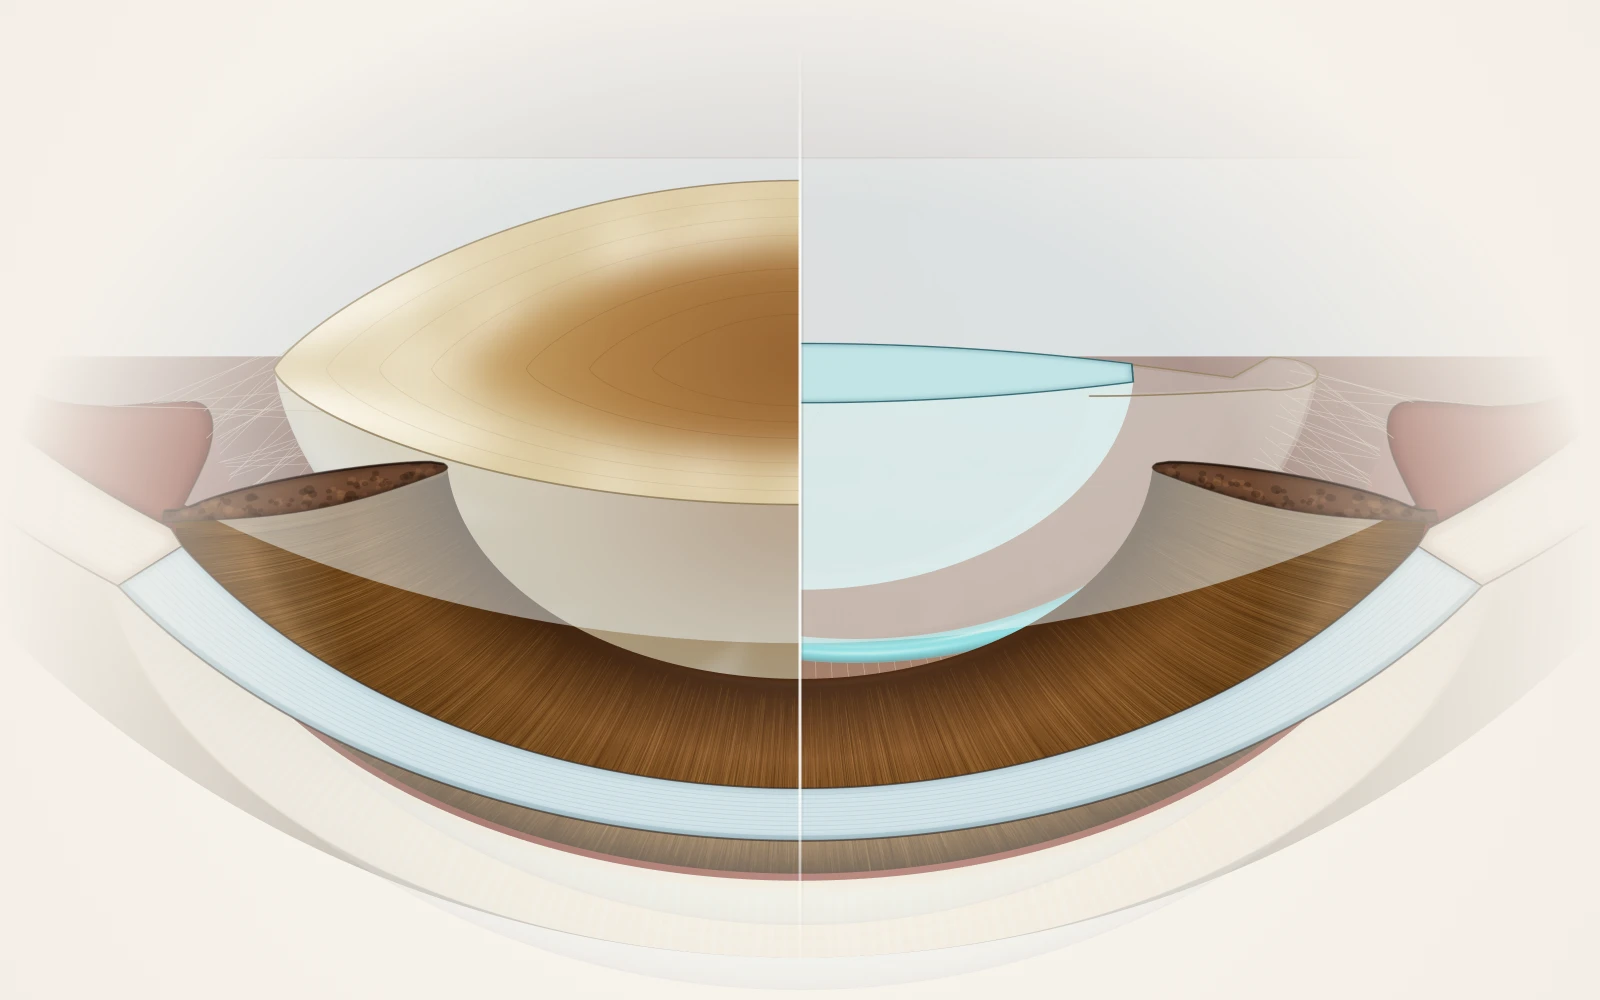
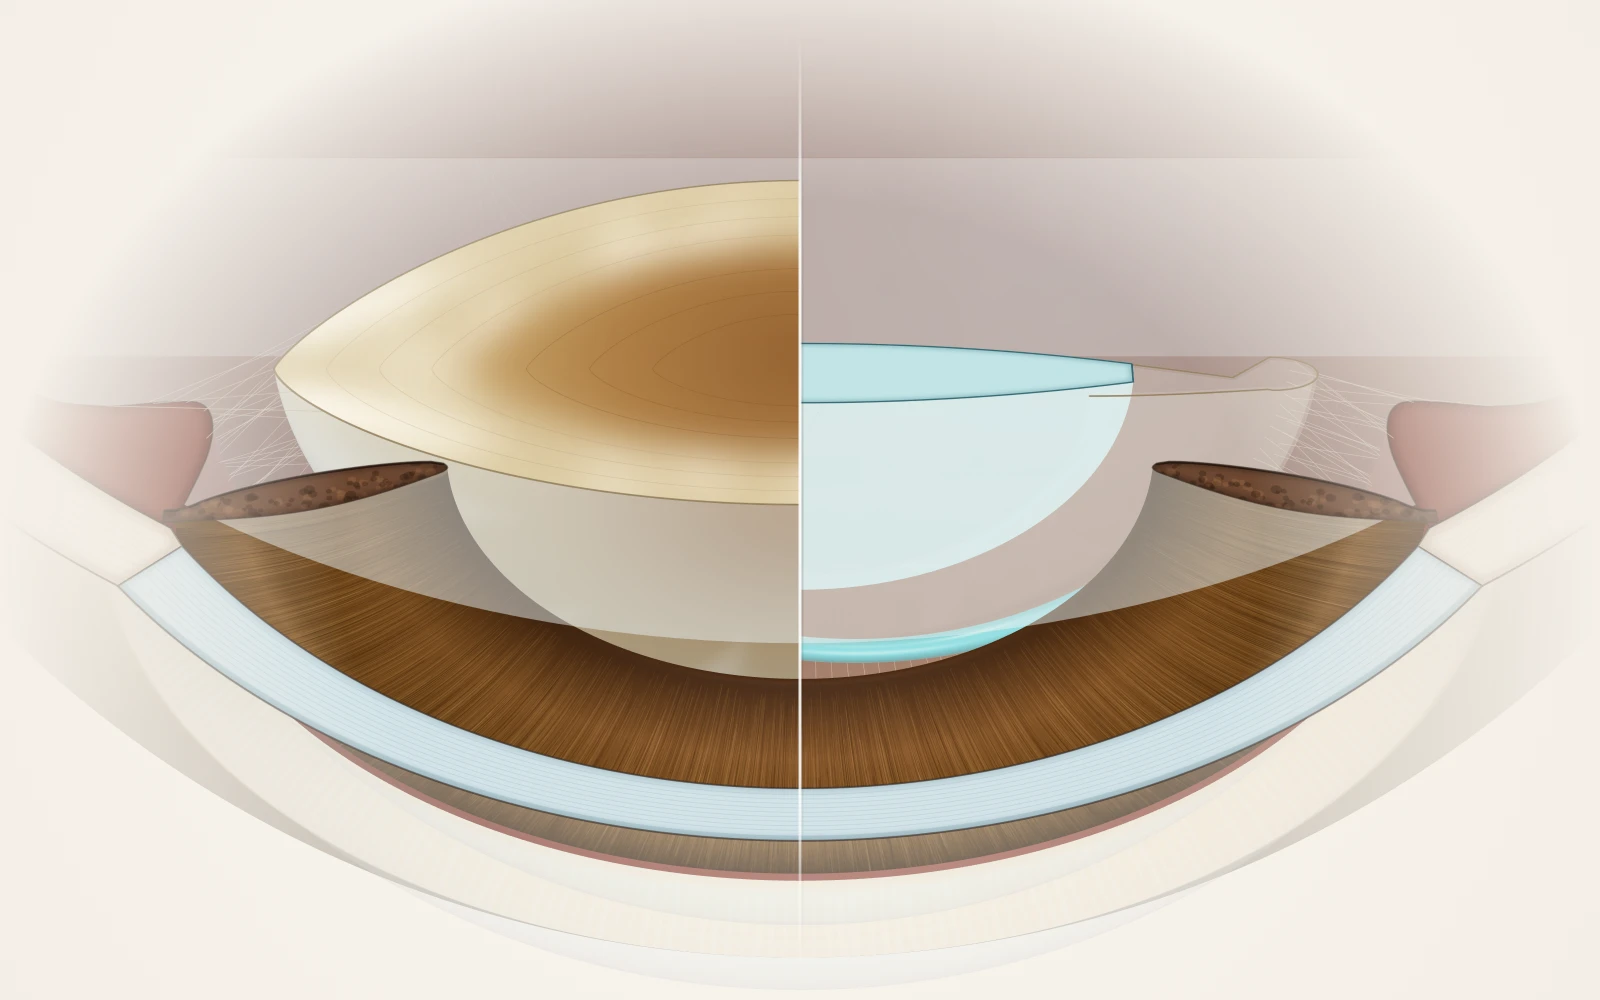
fix(illustrations): weak spots from the illustration review; resolution controls for the atlas
- cataract: translucent vitreous floor and section gel (no bright slab on dark)
- ICL: translucent vitreous floor (the pale corner is gone)
- CXL: UV field and rays toned down and shortened (no wash in the light image)
- implants: EDOF optic shows rings only (its relief read as a spiral)
- fundus map: soft mottling, continuous opaque vessels, resolution scales for close-ups
- style.RES (ppm/ink/tex) lets the atlas re-rasterise painted sections per frame;
  the legacy 1600x1000 render keeps RES = 1
- scene toggles for the atlas (loupe, inset, resting/grid optics, exported ICL/CXL helpers)

Legacy card files re-rendered with the same names and sizes.

Changed region(s): [[0.125, 0.031, 0.875, 0.372]]

diff --git a/scripts/illustrations/src/globe.js b/scripts/illustrations/src/globe.js
@@ -6,7 +6,7 @@ import { EYE, DEG, lensProfile, lensAntZ, lensPostZ, scleraProfile, ciliaryProfi
 import { lathe, corneaSpec, corneaMesh, irisTexture, irisUV, rng, colorize, clipAll, wedgePlanes, capPlane, paintedQuad, makeSection, offsetLine } from './kit.js';
 import { paintSclera, paintChoroid, paintRetina, paintCiliary, paintIris, paintCornea, paintLens, paintBag, paintZonules, paintOpticNerve, bagLines, NERVE_A, nerveW } from './eye.js';
 import { iol } from './instruments.js';
-import { C } from './style.js';
+import { C, RES } from './style.js';
 
 export const FULL = Math.PI * 2;
 
@@ -56,7 +56,7 @@ export function buildGlobe(mats, opt = {}) {
   let planes = null;
   const cut = o.cut;
   if (cut) {
-    planes = cut.mode === 'wedge' ? wedgePlanes(cut.phi0, cut.phi1) : [new THREE.Plane(new THREE.Vector3(0, -1, 0), 0)];
+    planes = cut.mode === 'wedge' ? wedgePlanes(cut.phi0, cut.phi1) : [new THREE.Plane(new THREE.Vector3(0, cut.keep === '+y' ? 1 : -1, 0), 0)]; // half: keep y <= 0 (default) or y >= 0
     if (cut.zc != null) planes.push(new THREE.Plane(new THREE.Vector3(0, 0, -1), cut.zc));
     if (cut.zb != null) planes.push(new THREE.Plane(new THREE.Vector3(0, 0, 1), -cut.zb)); // remove z < zb only
     clipAll(group, planes);
@@ -79,9 +79,9 @@ export function buildGlobe(mats, opt = {}) {
   };
 
   // Painted caps for the cut faces. r1 = radial extent, z1 = front limit (mm), ppm = canvas px per mm.
-  const caps = ({ r1 = 11.6, z1: zFront = 4.3, ppm = 160, tones = [1, 0.9, 0.96], floorPpm = 120 }) => {
+  const caps = ({ r1 = 11.6, z1: zFront = 4.3, ppm = 160, tones = [1, 0.9, 0.96], floorPpm = 120, zMin = -Infinity }) => {
     const back = -EYE.axialLength + EYE.corneaApexZ - 0.4;
-    const z0 = cut.zb != null ? back : (cut.zc ?? back);
+    const z0 = Math.max(zMin, cut.zb != null ? back : (cut.zc ?? back)); // zMin: paint only what a close-up frames
     const z1 = cut.zb != null ? cut.zb : zFront;
     const out = [];
     if (cut.mode === 'wedge') {
@@ -130,7 +130,8 @@ function sectionPlane(k, tone = 1) {
 }
 
 // Coronal face at z = zc inside the removed region: sclera, choroid and retina rings around the vitreous gel.
-function coronalFloor(cut, ppm, tone) {
+function coronalFloor(cut, ppm0, tone) {
+  const ppm = Math.min(ppm0 * RES.ppm, 7000 / 23), lw = RES.ink * (ppm / ppm0) / RES.ppm;
   const zc = cut.zc ?? cut.zb, dz = zc - EYE.cz;
   const rad = (R) => Math.sqrt(Math.max(0, R * R - dz * dz));
   const a = Math.atan2(rad(EYE.Ri), dz);
@@ -143,13 +144,13 @@ function coronalFloor(cut, ppm, tone) {
   g.save();
   g.beginPath(); // removed region in the xy plane
   if (cut.mode === 'wedge') { g.moveTo(...P(0, 0)); g.arc(...P(0, 0), S * ppm, -cut.phi0, -cut.phi1, true); g.closePath(); }
-  else g.rect(0, 0, N, N / 2);
+  else if (cut.keep === '+y') g.rect(0, N / 2, N, N / 2); else g.rect(0, 0, N, N / 2);
   g.clip();
   const ring = (r0, r1, fill) => { g.beginPath(); g.arc(...P(0, 0), r1 * ppm, 0, FULL); g.arc(...P(0, 0), r0 * ppm, 0, FULL, true); g.fillStyle = fill; g.fill(); };
   if (cut.floor === 'aqueous') { // just behind the limbus: scleral ring around clear aqueous
     g.beginPath(); g.arc(...P(0, 0), rIn * ppm, 0, FULL); g.fillStyle = 'rgba(232,240,242,0.35)'; g.fill();
     ring(rIn, rOut, C.sclera);
-    g.lineWidth = 4.2; g.strokeStyle = C.ink;
+    g.lineWidth = 4.2 * lw; g.strokeStyle = C.ink;
     for (const r of [rOut, rIn]) { g.beginPath(); g.arc(...P(0, 0), r * ppm, 0, FULL); g.stroke(); }
     g.restore();
     return paintedQuad(c, [-S, S, zc], [S, S, zc], [-S, -S, zc], { tone });
@@ -160,7 +161,7 @@ function coronalFloor(cut, ppm, tone) {
   vg.addColorStop(0, `rgba(236,241,242,${ga * 0.97})`); vg.addColorStop(1, `rgba(222,231,233,${ga})`);
   g.beginPath(); g.arc(...P(0, 0), rRet * ppm, 0, FULL); g.fillStyle = vg; g.fill();
   const R = rng(4);
-  g.lineWidth = 1.2;
+  g.lineWidth = 1.2 * lw;
   for (let i = 0; i < 26; i++) {
     const r0 = R() * rRet * 0.9, a0 = R() * FULL;
     g.strokeStyle = `rgba(190,206,212,${0.12 + R() * 0.12})`;
@@ -171,9 +172,9 @@ function coronalFloor(cut, ppm, tone) {
   ring(rRet, rCh, C.retina);
   ring(rCh, rIn, C.choroid);
   ring(rIn, rOut, C.sclera);
-  g.lineWidth = 2.1 * 2; g.strokeStyle = C.ink;
+  g.lineWidth = 2.1 * 2 * lw; g.strokeStyle = C.ink;
   for (const r of [rOut, rIn]) { g.beginPath(); g.arc(...P(0, 0), r * ppm, 0, FULL); g.stroke(); }
-  g.lineWidth = 2; g.strokeStyle = C.inkSoft;
+  g.lineWidth = 2 * lw; g.strokeStyle = C.inkSoft;
   for (const r of [rCh, rRet]) { g.beginPath(); g.arc(...P(0, 0), r * ppm, 0, FULL); g.stroke(); }
   g.restore();
   return paintedQuad(c, [-S, S, zc], [S, S, zc], [-S, -S, zc], { tone });
@@ -220,7 +221,7 @@ export function paintIOLSection(k, zc = -1.25) {
   k.stroke(poly, 'rgba(40,96,106,0.9)', 2.0);
 }
 
-function zonules(lens) {
+export function zonules(lens) {
   const pos = [];
   const anchorsDeg = [33.8, 35.4, 37.2, 39.2];
   const targets = lens === 'iol'
@@ -266,10 +267,11 @@ function fundusUV(g) {
   }
   uv.needsUpdate = true;
 }
-let fundusCache = null;
+let fundusCache = null, fundusN = 0;
 export function fundusTexture() {
-  if (fundusCache) return fundusCache.clone();
-  const N = 2048, c = document.createElement('canvas'); c.width = c.height = N;
+  const N = Math.min(8192, Math.round(2048 * RES.tex));
+  if (fundusCache && fundusN === N) return fundusCache.clone();
+  const px = N / 2048, c = document.createElement('canvas'); c.width = c.height = N;
   const g = c.getContext('2d');
   const s = N / (2 * D_MAX); // px per mm
   const P = (dx, dy) => [N / 2 + dx * s, N / 2 - dy * s]; // dx along +x (canvas right), dy along +y (canvas up)
@@ -279,11 +281,13 @@ export function fundusTexture() {
   g.fillStyle = base; g.fillRect(0, 0, N, N);
   const R = rng(17);
   // subtle choroidal mottling
+  g.filter = `blur(${Math.round(5 * px)}px)`; // soft mottling (hard-edged discs showed in close-ups)
   for (let i = 0; i < 2600; i++) {
     const [x, y] = [R() * N, R() * N];
     g.fillStyle = R() < 0.5 ? 'rgba(170,80,58,0.06)' : 'rgba(250,200,170,0.06)';
-    g.beginPath(); g.arc(x, y, 6 + R() * 20, 0, FULL); g.fill();
+    g.beginPath(); g.arc(x, y, (6 + R() * 20) * px, 0, FULL); g.fill();
   }
+  g.filter = 'none';
   // macula and fovea
   const [mx, my] = P(0, 0);
   let gr = g.createRadialGradient(mx, my, 0, mx, my, 3.0 * s);
@@ -300,9 +304,11 @@ export function fundusTexture() {
   const Rv = rng(23);
   const draw = (pts, w0, col) => {
     g.strokeStyle = col; g.lineCap = 'round'; g.lineJoin = 'round';
-    for (let i = 1; i < pts.length; i++) {
-      g.lineWidth = Math.max(1.4, w0 * (1 - 0.7 * i / pts.length) * s);
-      g.beginPath(); g.moveTo(...P(...pts[i - 1])); g.lineTo(...P(...pts[i])); g.stroke();
+    const steps = 6; // taper in a few opaque runs; each run is one path, so joints do not double up
+    for (let k = 0; k < steps; k++) {
+      const a = Math.floor((k * (pts.length - 1)) / steps), b = Math.floor(((k + 1) * (pts.length - 1)) / steps);
+      g.lineWidth = Math.max(1.4 * px, w0 * (1 - 0.7 * (a + b) / 2 / pts.length) * s);
+      g.beginPath(); g.moveTo(...P(...pts[a])); for (let i = a + 1; i <= b; i++) g.lineTo(...P(...pts[i])); g.stroke();
     }
   };
   const grow = (x, y, ang, len, w, col, depth) => {
@@ -322,14 +328,14 @@ export function fundusTexture() {
       grow(...pts[i], a + (Rv() < 0.5 ? 1 : -1) * (0.5 + Rv() * 0.5), len * 0.5, w * 0.6, col, depth + 1);
     }
   };
-  for (const [col, w, off] of [['rgba(128,24,26,0.8)', 0.17, 0.12], ['rgba(186,58,50,0.78)', 0.13, -0.12]]) {
+  for (const [col, w, off] of [['#9A3A33', 0.15, 0.12], ['#C2584A', 0.115, -0.12]]) {
     for (const sg of [1, -1]) {
       grow(-dd, sg * (0.25 + off * sg), sg * 1.05, 9.5, w, col, 0); // temporal arcade
       grow(-dd, sg * (0.2 + off * sg), Math.PI - sg * 0.6, 6, w * 0.8, col, 1); // nasal
     }
   }
   const t = new THREE.CanvasTexture(c); t.colorSpace = THREE.SRGBColorSpace; t.anisotropy = 16;
-  fundusCache = t;
+  fundusCache = t; fundusN = N;
   return t;
 }
 

diff --git a/scripts/illustrations/src/scenes/icl.js b/scripts/illustrations/src/scenes/icl.js
@@ -8,8 +8,8 @@ import { DEG, EYE, lensAntZ } from '../anatomy.js';
 import { phakicLens } from '../instruments.js';
 import { C } from '../style.js';
 
-const PHI_LONG = 58 * DEG; // the implant's long axis lies in this cut face
-const CUT = { mode: 'wedge', phi0: -52 * DEG, phi1: PHI_LONG, zc: -3.95 };
+export const PHI_LONG = 58 * DEG; // the implant's long axis lies in this cut face
+const CUT = { mode: 'wedge', phi0: -52 * DEG, phi1: PHI_LONG, zc: -3.95, floorAlpha: 0.5 }; // translucent gel floor (was a pale slab)
 
 // Plate geometry, matching instruments.phakicLens (L = 5.75, Rb = 17, zApex = 0.84).
 const L = 5.75, Rb = 17, zApex = 0.84;
@@ -25,8 +25,8 @@ const th = (x, y) => { const r = Math.hypot(x, y); return r < 2.9 ? 0.09 + 0.17 
 const base = (x, y) => zApex - (x * x + y * y) / (2 * Rb);
 
 // Section of the plate along the half-line at polar angle phi: [r, z] polygon (bottom out, top back).
-function plateSection(phi) {
-  const a = phi - PHI_LONG, bottom = [], top = [];
+export function plateSection(phi, phiLong = PHI_LONG) {
+  const a = phi - phiLong, bottom = [], top = [];
   for (let r = 0; r <= L + 0.001; r += 0.02) {
     const x = r * Math.cos(a), y = r * Math.sin(a);
     if (Math.abs(x) > L || Math.abs(y) > hw(x)) break;
@@ -44,22 +44,26 @@ export default function icl(ctx) {
   lens.rotation.z = PHI_LONG;
   const eye = buildGlobe(ctx.mats, {
     lens: 'clear', pupilR: 2.3, irisLift: 0.72, cut: CUT, fundusTint: '#6E5652', irisSeed: 7,
-    paintExtra: (k, phi) => {
-      const sec = plateSection(phi);
-      if (sec.bottom.length < 2) return;
-      // the vault: aqueous between the implant and the natural lens, tinted so the gap reads
-      const n = sec.bottom.length, rEnd = sec.bottom[n - 1][0];
-      const over = sec.bottom.filter(([r]) => r < Math.min(rEnd, 4.2)).map(([r]) => [r, lensAntZ(Math.min(r, EYE.lensEqR - 0.01)) + 0.004]);
-      const gap = [...sec.bottom.slice(0, over.length).map(([r, z]) => [r, z - 0.004]), ...over.reverse()];
-      k.ctx.save(); k.ctx.filter = `blur(${k.mm(0.04)}px)`; k.fill(gap, 'rgba(118,202,220,0.62)'); k.ctx.restore();
-      k.fill(sec.poly, C.implantSection);
-      k.shade(sec.poly, 'rgba(40,110,120,0.35)', 3, 3);
-      k.stroke(sec.poly, 'rgba(40,96,106,0.95)', 2.2);
-    }
+    paintExtra: (k, phi) => paintPlate(k, phi)
   });
   lens.traverse((o) => { if (o.material) { o.material.clippingPlanes = eye.planes; o.material.clipIntersection = true; } });
   const m = lens.children[0].material; m.color = new THREE.Color('#9FD9DC'); m.opacity = 0.62;
   scene.add(eye.group, lens, ...eye.caps({ r1: 11.6, z1: 4.3, ppm: 330, tones: [0.88, 1, 0.92] }));
   const W = ctx.W, H = ctx.H;
   return { passes: [{ scene, camera: cam, fade: { cx: W * 0.42, cy: H * 0.5, rx: W * 0.56, ry: H * 0.74, inner: 0.56 } }] };
+}
+
+// The plate's section on the cut face at polar angle phi, with the vault (aqueous between the implant and the natural
+// lens) tinted so the gap reads.
+export function paintPlate(k, phi, phiLong = PHI_LONG, mirror = false) {
+  const sec = plateSection(phi, phiLong);
+  if (sec.bottom.length < 2) return;
+  const m = mirror ? (poly) => poly.map(([r, z]) => [-r, z]) : (poly) => poly;
+  const n = sec.bottom.length, rEnd = sec.bottom[n - 1][0];
+  const over = sec.bottom.filter(([r]) => r < Math.min(rEnd, 4.2)).map(([r]) => [r, lensAntZ(Math.min(r, EYE.lensEqR - 0.01)) + 0.004]);
+  const gap = [...sec.bottom.slice(0, over.length).map(([r, z]) => [r, z - 0.004]), ...over.reverse()];
+  k.ctx.save(); k.ctx.filter = `blur(${k.mm(0.04)}px)`; k.fill(m(gap), 'rgba(118,202,220,0.62)'); k.ctx.restore();
+  k.fill(m(sec.poly), C.implantSection);
+  k.shade(m(sec.poly), 'rgba(40,110,120,0.35)', 3, 3);
+  k.stroke(m(sec.poly), 'rgba(40,96,106,0.95)', 2.2);
 }

diff --git a/scripts/illustrations/src/scenes/implants.js b/scripts/illustrations/src/scenes/implants.js
@@ -17,12 +17,15 @@ export default function implants(ctx) {
   const el = 47 * DEG;
   const cam = ctx.camera({ target: [0, -0.9, 0.9], dir: [0, -Math.cos(el), Math.sin(el)], up: [0, 0, 1], H: 24.5, fov: 20 });
   const scene = ctx.scene(cam);
-  TYPES.forEach((t, i) => { const m = productIOL(ctx, t); m.position.set(XS[i], 0, H0); scene.add(m); });
+  const resting = !!ctx.opts?.resting; // atlas close-up: optics rest on the surface (no levitation, no caustics)
+  const grid = !!ctx.opts?.grid; // atlas close-up: a 2 x 2 arrangement
+  const POS = TYPES.map((t, i) => (grid ? [[-5.4, 4.7], [5.4, 4.7], [-5.4, -4.9], [5.4, -4.9]][i] : [XS[i], 0]));
+  TYPES.forEach((t, i) => { const m = productIOL(ctx, t); m.position.set(POS[i][0], POS[i][1], resting ? 0.41 : H0); scene.add(m); });
 
   return {
     passes: [{ scene, camera: cam }],
     under(g, theme) {
-      TYPES.forEach((t, i) => floorLight(g, theme, ctx, cam, XS[i], t));
+      TYPES.forEach((t, i) => (resting ? contactShadow(g, theme, ctx, cam, POS[i][0], POS[i][1]) : floorLight(g, theme, ctx, cam, XS[i], t)));
     }
   };
 }
@@ -81,7 +84,7 @@ function opticSurface(type) {
     const r0 = i ? zones[i - 1] : 0, r1 = zones[i], amp = type === 'trifocal' ? 1 - 0.55 * (r1 / 2.5) : 1.2;
     return amp * ((r - r0) / (r1 - r0)) * 0.012; // sawtooth step
   };
-  const normal = zones.length ? normalMapFrom(h, 1024, 260) : null;
+  const normal = zones.length && type !== 'edof' ? normalMapFrom(h, 1024, 260) : null; // EDOF: rings only (its relief read as a spiral)
   const c = document.createElement('canvas'); c.width = c.height = 1024;
   const g = c.getContext('2d');
   g.fillStyle = '#ffffff'; g.fillRect(0, 0, 1024, 1024);
@@ -116,4 +119,16 @@ function floorLight(g, theme, ctx, cam, x, type) {
   if (type === 'trifocal') { glow(0.62, 0.95); ring(1.35, 0.16, 0.55); ring(2.2, 0.14, 0.32); }
   if (type === 'edof') { g.scale(1, 1.9); glow(1.0, 0.85); }
   g.restore();
+}
+
+// Contact shadow of an optic resting on the surface (atlas close-up).
+function contactShadow(g, theme, ctx, cam, x, y = 0) {
+  const o = ctx.project(cam, [x + 0.25, y - 0.35, 0]), ex = ctx.project(cam, [x + 1.25, y - 0.35, 0]), ey = ctx.project(cam, [x + 0.25, y + 0.65, 0]);
+  g.save();
+  g.setTransform(ex[0] - o[0], ex[1] - o[1], ey[0] - o[0], ey[1] - o[1], o[0], o[1]);
+  const sh = g.createRadialGradient(0, 0, 0, 0, 0, 3.6);
+  sh.addColorStop(0, 'rgba(40,52,56,0.34)'); sh.addColorStop(0.62, 'rgba(40,52,56,0.16)'); sh.addColorStop(1, 'rgba(40,52,56,0)');
+  g.fillStyle = sh; g.fillRect(-4, -4, 8, 8);
+  g.restore();
+  void theme;
 }

diff --git a/scripts/illustrations/src/scenes/cxl.js b/scripts/illustrations/src/scenes/cxl.js
@@ -61,14 +61,15 @@ export default function cxl(ctx) {
   const caps = eye.caps({ r1: 11.6, z1: 4.6, ppm: 320, tones: [1, 0.86, 0.95] });
   scene.add(eye.group, ...caps);
   // UV-A field (illustrative violet; 365 nm light is barely visible) with faint parallel rays
-  scene.add(lightColumn({ radius: 4.5, zFar: 26, zEnd: (x, y) => F(x, y) + 0.02, opacity: 0.2 }));
+  const uv = ctx.opts?.uv ?? 1; // 1 = series default; the UV field was toned down after review (it washed the upper left)
+  scene.add(lightColumn({ radius: 4.5, zFar: 17, zEnd: (x, y) => F(x, y) + 0.02, opacity: 0.12 * uv }));
   const rays = [];
   for (let i = 0; i < 46; i++) {
     const r = 4.3 * Math.sqrt((i + 0.5) / 46), t = i * 2.39996, x = r * Math.cos(t), y = r * Math.sin(t);
-    rays.push(x, y, 26, x, y, F(x, y) + 0.03);
+    rays.push(x, y, 15, x, y, F(x, y) + 0.03);
   }
   const rg = new THREE.BufferGeometry(); rg.setAttribute('position', new THREE.Float32BufferAttribute(rays, 3));
-  const rl = new THREE.LineSegments(rg, new THREE.LineBasicMaterial({ color: '#8C7BE0', transparent: true, opacity: 0.22, depthWrite: false }));
+  const rl = new THREE.LineSegments(rg, new THREE.LineBasicMaterial({ color: '#8C7BE0', transparent: true, opacity: 0.13 * uv, depthWrite: false }));
   rl.renderOrder = 21; scene.add(rl);
 
   const W = ctx.W, H = ctx.H;
@@ -78,7 +79,7 @@ export default function cxl(ctx) {
   const L = { x: W * 0.8, y: H * 0.33, r: H * 0.2 };
   return {
     passes: [{ scene, camera: cam, fade: { cx: W * 0.42, cy: H * 0.52, rx: W * 0.5, ry: H * 0.62, inner: 0.6 } }],
-    over(g, theme) { drawLoupe(g, theme, L, focus); }
+    over(g, theme) { if (ctx.opts?.loupe !== false) drawLoupe(g, theme, L, focus); }
   };
 }
 
@@ -150,3 +151,5 @@ function drawLoupe(g, theme, L, focus) {
 }
 
 void C;
+
+export { F as coneSurface, T as coneThickness, CX as CONE_X };

diff --git a/scripts/illustrations/src/kit.js b/scripts/illustrations/src/kit.js
@@ -2,7 +2,7 @@
 // the canvas "section painter" helpers. Everything here is procedural; no external models or textures.
 import * as THREE from 'three';
 import { EYE, corneaAntZ, corneaThickness } from './anatomy.js';
-import { C, M, INK_PX, SS } from './style.js';
+import { C, M, INK_PX, SS as SS0, RES } from './style.js';
 
 // ---------------------------------------------------------------------------------------------
 // Lathe around the optical (Z) axis, adapted from src/cataract-sim/lathe.js (copied, not imported).
@@ -189,8 +189,11 @@ export function retinaColors(g) {
 
 // ---------------------------------------------------------------------------------------------
 // Section painter: a canvas mapped onto the y = 0 cut plane. Canvas left = anterior (+z), top = +x.
-export function makeSection(bounds, ppm) {
+export function makeSection(bounds, ppm0) {
   const { x0, x1, z0, z1 } = bounds;
+  // atlas renders scale the canvas with the frame; keep each side under the GPU texture limit
+  const ppm = Math.min(ppm0 * RES.ppm, 15800 / Math.max(z1 - z0, x1 - x0), Math.sqrt(4.8e7 / ((z1 - z0) * (x1 - x0))));
+  const SS = SS0 * RES.ink * (ppm / (ppm0 * RES.ppm));
   const W = Math.round((z1 - z0) * ppm), H = Math.round((x1 - x0) * ppm);
   const canvas = document.createElement('canvas'); canvas.width = W; canvas.height = H;
   const ctx = canvas.getContext('2d');

diff --git a/scripts/illustrations/src/scenes/cataract.js b/scripts/illustrations/src/scenes/cataract.js
@@ -4,15 +4,15 @@
 import { buildGlobe } from '../globe.js';
 import { DEG } from '../anatomy.js';
 
-const CUT = { mode: 'half', zc: -4.0 };
+const CUT = { mode: 'half', zc: -4.0, floorAlpha: 0.6 }; // translucent gel floor: no bright slab behind the lens
 const EL = 50 * DEG;
 
 export default function cataract(ctx) {
   const cam = ctx.camera({ target: [0, -0.2, -0.9], shift: [0, -0.75], dir: [0, Math.sin(EL), Math.cos(EL)], up: [0, 1, 0], H: 9.0, fov: 16 });
   const make = (lens) => {
-    const eye = buildGlobe(ctx.mats, { lens, pupilR: 3.15, cut: CUT, iolOpts: { phi0: 205 * DEG }, fundusTint: '#6E5652' });
+    const eye = buildGlobe(ctx.mats, { lens, pupilR: 3.15, cut: CUT, iolOpts: { phi0: 205 * DEG }, fundusTint: '#6E5652', gelAlpha: 0.66 }); // gel kept translucent: it was the brightest patch on dark
     const s = ctx.scene(cam);
-    s.add(eye.group, ...eye.caps({ r1: 11.6, z1: 4.3, ppm: 230, tones: [1, 1, 0.93] }));
+    s.add(eye.group, ...eye.caps({ r1: 11.6, z1: 4.3, ppm: 230, tones: [1, 1, 0.8] }));
     return s;
   };
   const W = ctx.W, H = ctx.H;

diff --git a/scripts/illustrations/src/style.js b/scripts/illustrations/src/style.js
@@ -4,6 +4,11 @@ export const OUT_W = 1600;
 export const OUT_H = 1000;
 export const SS = 2; // supersampling factor of the WebGL render (3200 x 2000, downsampled to 1600 x 1000)
 
+// Resolution controls for the atlas renderer (scripts/illustrations/atlas.mjs). The legacy 1600 x 1000 render keeps
+// both at 1. `ppm` scales every painted cut-face canvas (and the fundus map) so a zoomed or larger frame keeps
+// one canvas pixel per render pixel; `ink` scales painted line widths so ink stays 2.1 px per 1600 px of output.
+export const RES = { ppm: 1, ink: 1, tex: 1 };
+
 // One light rig for the whole series, in camera space ([right, up, towards-viewer]): a warm key light from the
 // upper left, a cool fill from the right, a rim light from behind and a soft warm/grey hemisphere.
 export const LIGHT_RIG = {

diff --git a/scripts/illustrations/src/scenes/transplant.js b/scripts/illustrations/src/scenes/transplant.js
@@ -46,7 +46,7 @@ export default function transplant(ctx) {
   const panel = { x: 1056, y: 92, w: 470, h: 816 };
   return {
     passes: [{ scene, camera: cam, fade: { cx: ex, cy: ey, rx: W * 0.33, ry: W * 0.33, inner: 0.6 } }],
-    over(g, theme) { drawVariants(g, theme, panel); }
+    over(g, theme) { if (ctx.opts?.inset !== false) drawVariants(g, theme, panel); }
   };
 }
 
